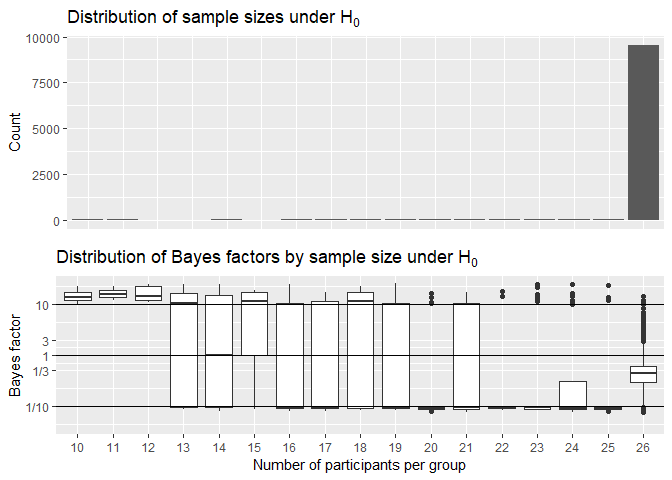
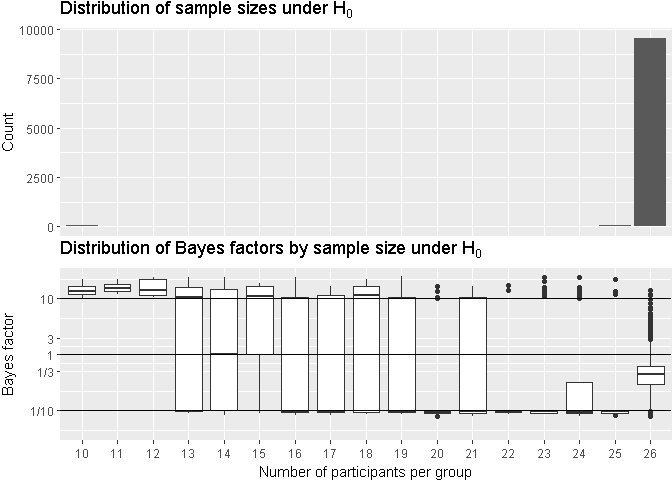
Aligning plots vertically

diff --git a/preparation/powerAnalysis.md b/preparation/powerAnalysis.md
@@ -4,7 +4,7 @@ Design analysis for noveltyVR
 Aim of this document
 ====================
 
-Instead of a frequentist statistics as planned previously, we decided to use a Bayesian framework more specifically a Sequential Bayesian Factor (SBF) analysis to examine whether the experience of novelty can enhance memory for unrelated information.
+Instead of frequentist statistics as planned previously, we decided to use a Bayesian framework more specifically a Sequential Bayesian Factor (SBF) analysis to examine whether the experience of novelty can enhance memory for unrelated information.
 
 Nevertheless, I also report the power analysis that I ran, in which I am determining the necessary sample size to find an effect with a power of 95 % based on the results of Fenker et al. (2008). Even though a Bayesian approach will be used, this power analysis provide useful guidance that will be used to justify an upper limit.
 
@@ -21,8 +21,8 @@ library(ggplot2)
 library(pwr)
 library(plyr)
 library(knitr)
-library(grid)
-library(gridExtra)
+library(cowplot)
+theme_set(theme_grey()) # Important to retain the ggplot theme
 ```
 
 Calculating effect sizes
@@ -46,7 +46,7 @@ We are using the effect sizes from Fenker et al. (2008) to plan our study. In to
 
 The effect size most suitable to base our study on was immediate recall in Experiment 2, which was *d* = 0.94. I am going to use this to base my simulation of my design analysis on. It is also the one with the highest effect size.
 
-There are good reasons to choose free recall as the central measure for the novelty effect of VR. First, it is a straight forward test of memory performance that in contrast o qualitative memory, it has less theoretical assumptions than remember/recollection and it best suited for our paradigm.
+There are good reasons to choose free recall as the central measure for the novelty effect of VR. First, it is a straight forward test of memory performance as it has less theoretical assumptions than remember/recollection and it best suited for our paradigm.
 
 As a side note, it is also interesting to see that the effect size increased from delayed recognition compared to immediate recognition, which can be interpreted as evidence for consolidation. This is an argument for including delayed recognition to our design.
 
@@ -128,7 +128,7 @@ If we used a frequentist approach, we would have 95 % power to detect a signific
 Bayesian design analysis
 ------------------------
 
-For the study, we plan to use a SBF analysis with an upper limit on the sample size and an endpoint Bayes factor of 10. The upper limit is set to 26 for the reasons mentioned above. The simulation below will help us to determine whether that upper limit will help us to provide conclusive evidence. The design analysis is based on Schönbrodt & Wagenmakers (2018).
+For the study, we plan to use a SBF analysis with an upper limit of the sample size and an endpoint Bayes factor of 10. The upper limit is set to 26 for the reasons mentioned above. The simulation below will help us to determine whether that upper limit will help us to provide conclusive evidence. The design analysis is based on Schönbrodt & Wagenmakers (2018).
 
 I needed a couple of attempts to run the correct simulation for the Bayesian design analysis. In my first attempt (can be found [here](https://github.com/JAQuent/noveltyVR/blob/master/preparation/bayesianDesignAnalysis1.R)), the problem was that I just sampled Bayes factors for various fixed sample sizes, but I did not actually simulate sequential testing. The data of that simulation can be found [here](https://github.com/JAQuent/noveltyVR/blob/master/preparation/noveltyVR_bayesianDesignAnalysis_20190108_165205.RData). In another [simulation](https://github.com/JAQuent/noveltyVR/blob/master/preparation/noveltyVR_SBF_DesignAnalysis_20190109_165631.RData) , I ran a simulation with an upper limit of 500 participants per group without realising that I cannot properly calculate the Bayes factor at the upper limit I actually want to select. I then re-ran the [simulation](https://github.com/JAQuent/noveltyVR/blob/master/preparation/noveltyVR_SBF_DesignAnalysis_20190110_103336.RData) then sampling actually realistic sample sizes. However the problem with that was that I did not use the correct hypothesis. The hypotheses in this simulation were *H*<sub>0</sub> : *μ* = 0 and *H*<sub>1</sub> : *μ* ≠ 0. Since we do not expect the novelty group to show worse memory performance than the control group, I re-ran the analysis with these hypotheses: *H*<sub>0</sub> : *μ* = 0 and *H*<sub>1</sub> : *μ* &gt; 0.
 
@@ -343,7 +343,7 @@ rightDirection_H0 <- sum(dataH0$n == upperLimit & dataH0$BF < 1) / (sum(dataH0$n
 rightDirection_H1 <- sum(dataH1$n == upperLimit & dataH1$BF > 1) / (sum(dataH1$n == 26 & dataH1$BF <= 1) + sum(dataH1$n == upperLimit & dataH1$BF > 1))
 ```
 
-If data collection is stopped at the upper limit, then 92 % of the Bayes factors show in the right direction under *H*<sub>0</sub> and 89 % under *H*<sub>1</sub>. This shows that even if the rigorous evidence level is not reached after collection 26 per group, we will be still very likely to get a Bayes factor in the correct direction.
+If data collection is stopped at the upper limit, then 92 % of the Bayes factors show in the right direction under *H*<sub>0</sub> and 89 % under *H*<sub>1</sub>. This shows that even if the rigorous evidence level is not reached after collecting 26 per group, we will be still very likely to get a Bayes factor in the correct direction.
 
 ### 4. How will the distribution of sample sizes look like?
 
@@ -360,7 +360,9 @@ plot1 <- ggplot(dataH0, aes(x = n)) + geom_bar() +
        title = bquote('Distribution of sample sizes under '*H[0])) +
   theme(axis.title.x = element_blank(),
         axis.text.x = element_blank(),
-        axis.ticks.x = element_blank())
+        axis.ticks.x = element_blank(),
+        plot.margin = unit(c(0,0,0,0), "cm"),
+        panel.margin = unit(c(0,0,0,0), "cm"))
 
 plot2 <- ggplot(dataH0_trans, aes(x =  n, y = BF)) + 
   geom_boxplot() +
@@ -372,16 +374,16 @@ plot2 <- ggplot(dataH0_trans, aes(x =  n, y = BF)) +
        title = bquote('Distribution of Bayes factors by sample size under '*H[0])) +
   scale_y_continuous(breaks = c(-10, -3, 0, 3, 10), 
                      labels = c('1/10', '1/3', '1', '3', '10'),
-                     limits = c(-14, 14))
+                     limits = c(-14, 14)) +
+  theme(plot.margin = unit(c(0,0,0,0), "cm"),
+        panel.margin = unit(c(0,0,0,0), "cm"))
 
-grid.arrange(plot1,
-             plot2,
-             ncol = 1)
+plot_grid(plot1, plot2, ncol = 1, align = "v")
 ```
 
 ![](powerAnalysis_files/figure-markdown_github/unnamed-chunk-10-1.png)
 
-The plot above shows the simulation for the upper limit of 26 participants under *H*<sub>0</sub>. The top half of plot shows the number of runs that end with the respective sample size shown on the x-axis. The vast majority of runs did not reach the evidence criterion. With sample sizes over 21, the Bayes factor consistently show in right direction as indicated by box plots in the second halt of the plot. If *H*<sub>0</sub> is true most runs stop at the upper limit but still result in a median Bayes factor of 0.28, which more than anecdotal evidence.
+The plot above shows the simulation for the upper limit of 26 participants under *H*<sub>0</sub>. The top half of plot shows the number of runs that end with the respective sample size shown on the x-axis. The vast majority of runs did not reach the evidence criterion. With sample sizes over 21, the Bayes factor consistently points in right direction as indicated by box plots in the second halt of the plot. If *H*<sub>0</sub> is true most runs stop at the upper limit but still result in a median Bayes factor of 0.28, which more than anecdotal evidence.
 
 ``` r
 # For H1
@@ -409,9 +411,7 @@ plot4 <- ggplot(dataH1_trans, aes(x =  n, y = BF)) +
                      labels = c('1/10', '1/3', '1', '3', '10'),
                      limits = c(-14, 14))
 
-grid.arrange(plot3,
-             plot4,
-             ncol = 1)
+plot_grid(plot3, plot4, ncol = 1, align = "v")
 ```
 
 ![](powerAnalysis_files/figure-markdown_github/unnamed-chunk-11-1.png)
